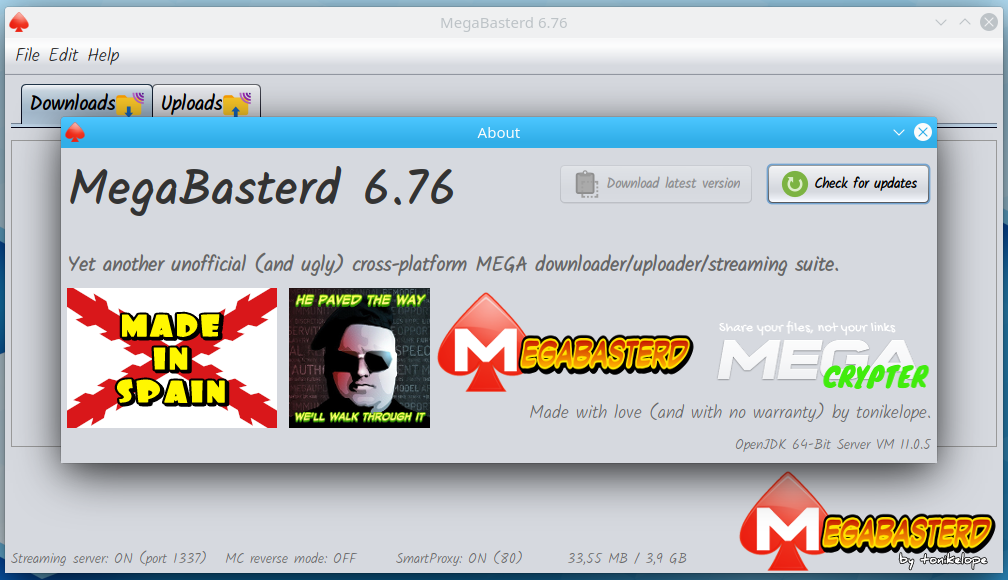
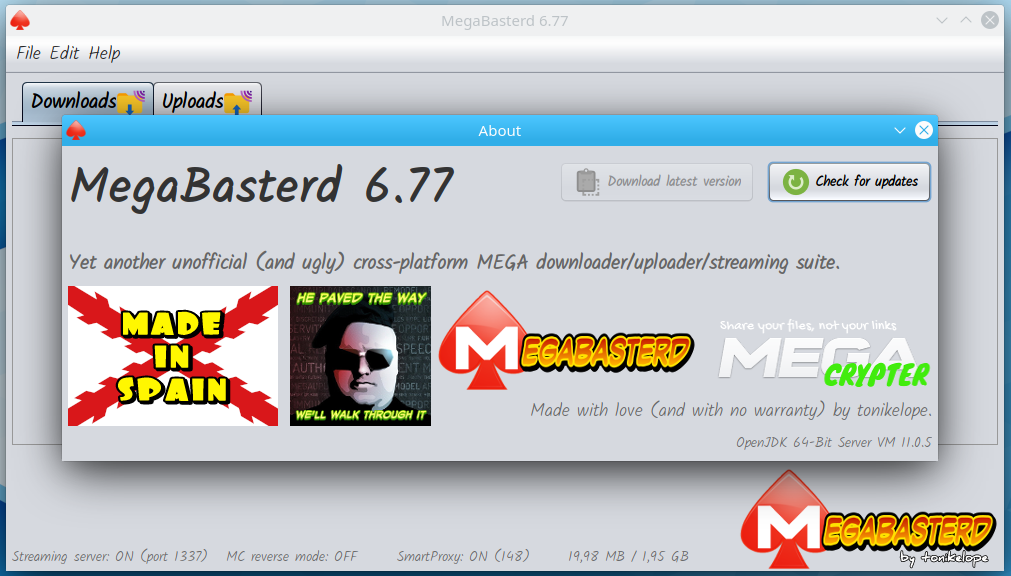
6.77
-6.76 fix

(cherry picked from commit 9ba47c33812498febd84d191354760338156ce9a)

diff --git a/src/main/java/com/tonikelope/megabasterd/SmartMegaProxyManager.java b/src/main/java/com/tonikelope/megabasterd/SmartMegaProxyManager.java
@@ -81,27 +81,31 @@ public final class SmartMegaProxyManager {
 
             String custom_proxy_list = DBTools.selectSettingValue("custom_proxy_list");
 
-            ArrayList<String> custom_list = new ArrayList<>(Arrays.asList(custom_proxy_list.split("\\r?\\n")));
+            LinkedHashMap<String, Long> custom_clean_list = new LinkedHashMap<>();;
 
-            LinkedHashMap<String, Long> custom_clean_list = new LinkedHashMap<>();
+            if (custom_proxy_list != null) {
 
-            if (!custom_list.isEmpty()) {
+                ArrayList<String> custom_list = new ArrayList<>(Arrays.asList(custom_proxy_list.split("\\r?\\n")));
 
-                Long current_time = System.currentTimeMillis();
+                if (!custom_list.isEmpty()) {
 
-                for (String proxy : custom_list) {
+                    Long current_time = System.currentTimeMillis();
 
-                    if (proxy.trim().matches(".+?:[0-9]{1,5}")) {
-                        custom_clean_list.put(proxy, current_time);
+                    for (String proxy : custom_list) {
+
+                        if (proxy.trim().matches(".+?:[0-9]{1,5}")) {
+                            custom_clean_list.put(proxy, current_time);
+                        }
                     }
                 }
-            }
 
-            if (!custom_clean_list.isEmpty()) {
+                if (!custom_clean_list.isEmpty()) {
 
-                _proxy_list.clear();
+                    _proxy_list.clear();
 
-                _proxy_list.putAll(custom_clean_list);
+                    _proxy_list.putAll(custom_clean_list);
+                }
+
             }
 
             if (custom_clean_list.isEmpty() && _proxy_list_url != null && _proxy_list_url.length() > 0) {

diff --git a/src/main/java/com/tonikelope/megabasterd/SettingsDialog.java b/src/main/java/com/tonikelope/megabasterd/SettingsDialog.java
@@ -580,7 +580,9 @@ public class SettingsDialog extends javax.swing.JDialog {
 
         String custom_proxy_list = DBTools.selectSettingValue("custom_proxy_list");
 
-        custom_proxy_textarea.setText(custom_proxy_list);
+        if (custom_proxy_list != null) {
+            custom_proxy_textarea.setText(custom_proxy_list);
+        }
 
         _remember_master_pass = true;
 

diff --git a/src/main/java/com/tonikelope/megabasterd/MainPanel.java b/src/main/java/com/tonikelope/megabasterd/MainPanel.java
@@ -53,7 +53,7 @@ import javax.swing.UIManager;
  */
 public final class MainPanel {
 
-    public static final String VERSION = "6.76";
+    public static final String VERSION = "6.77";
     public static final int THROTTLE_SLICE_SIZE = 16 * 1024;
     public static final int DEFAULT_BYTE_BUFFER_SIZE = 16 * 1024;
     public static final int STREAMER_PORT = 1337;
